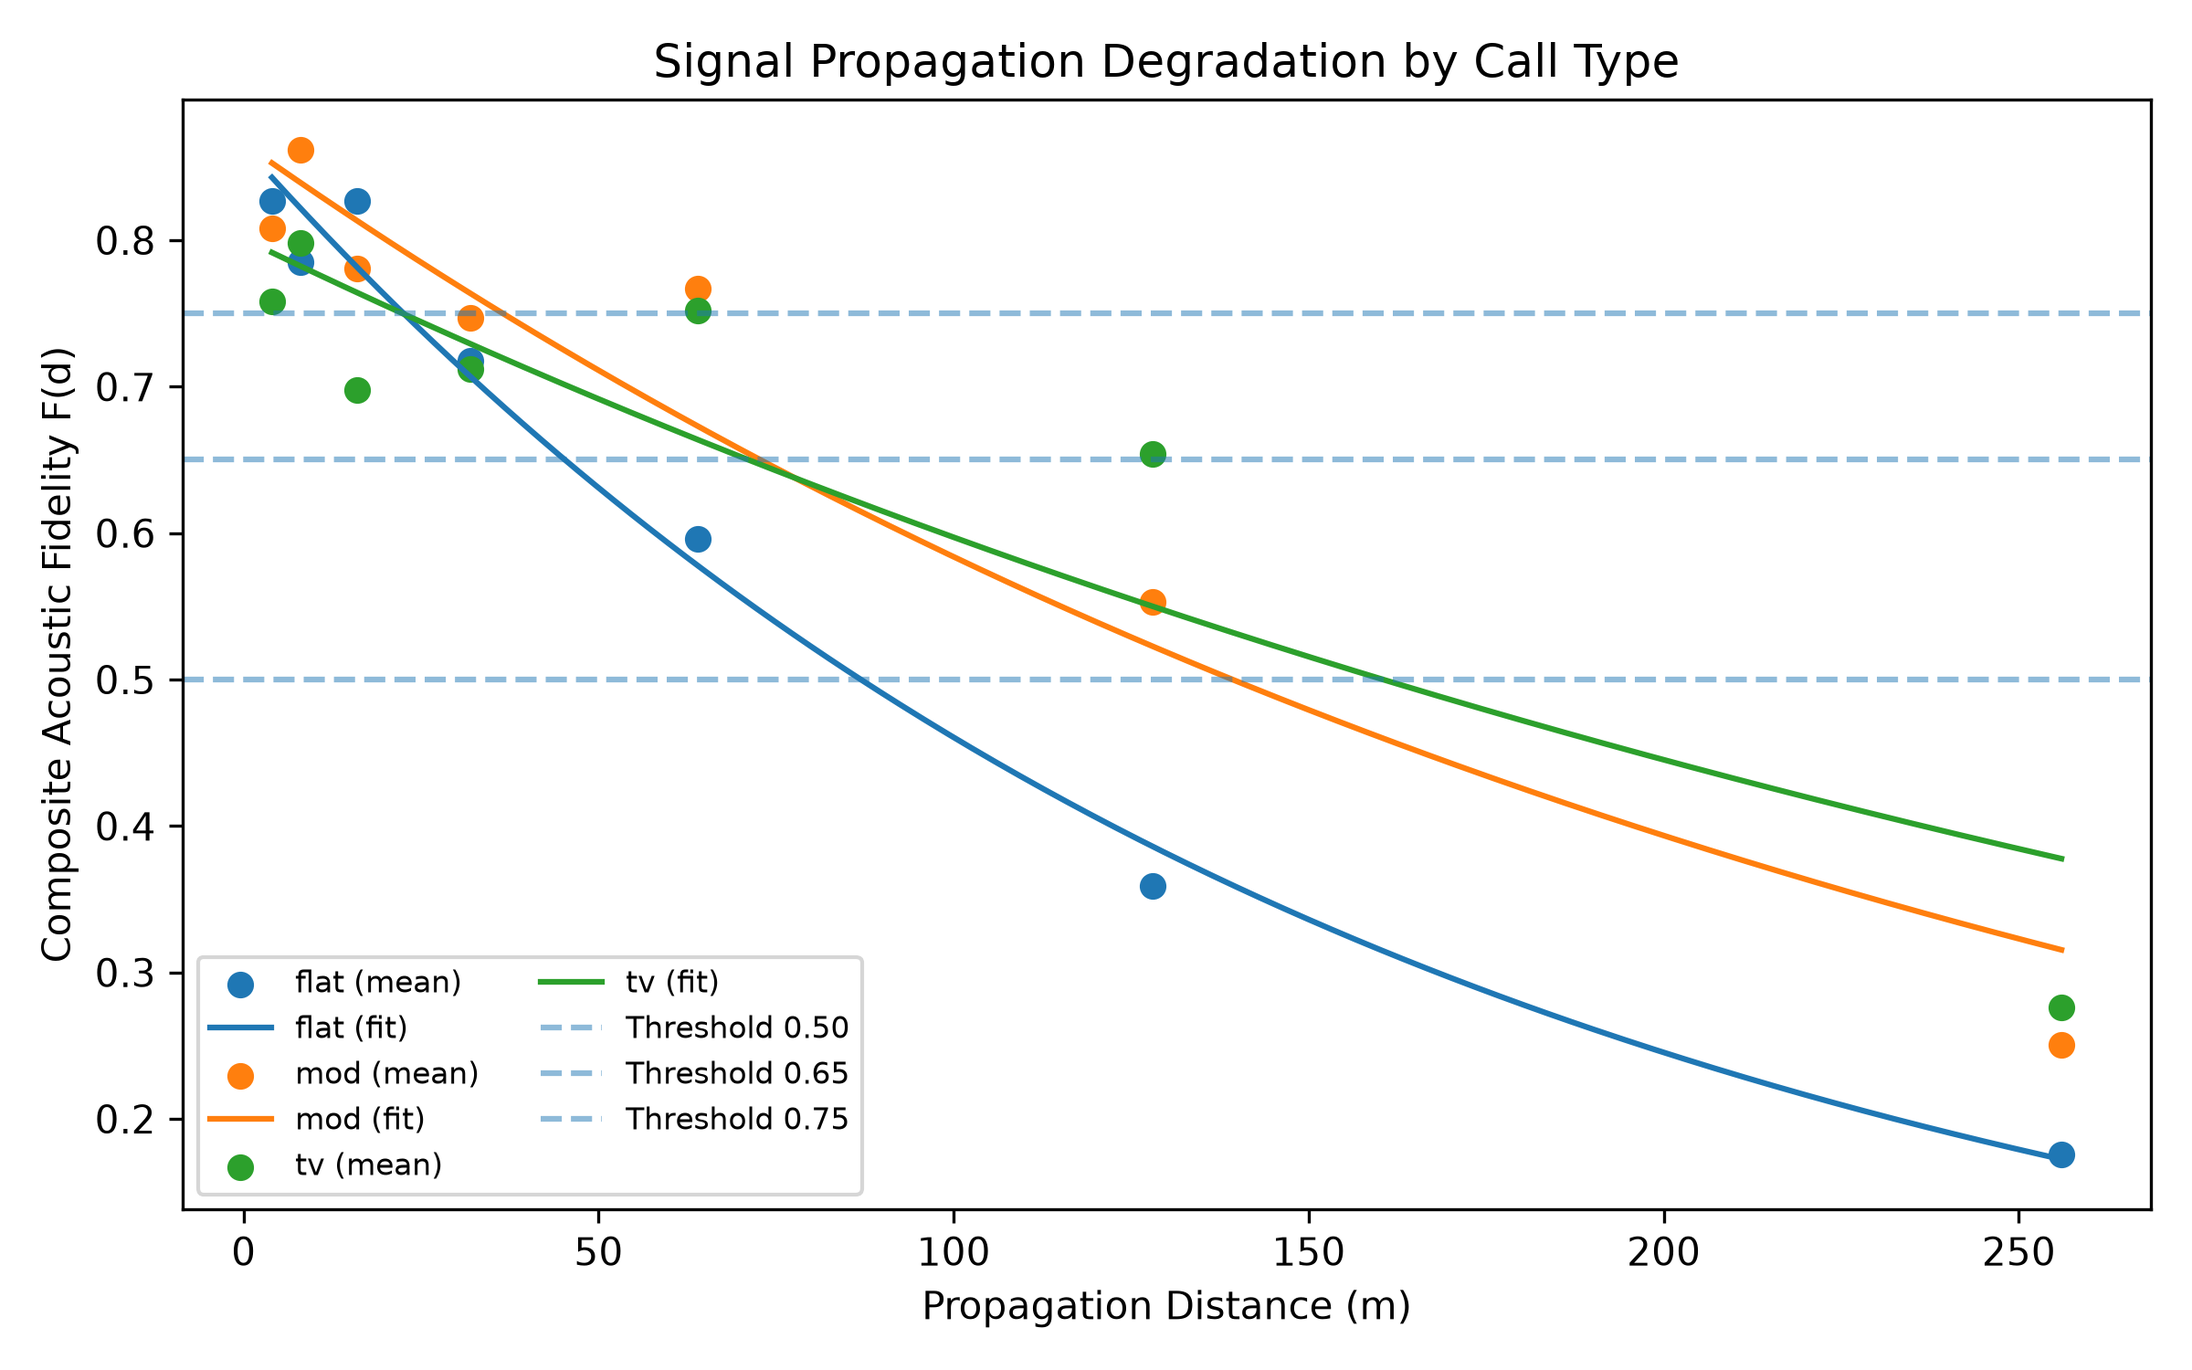
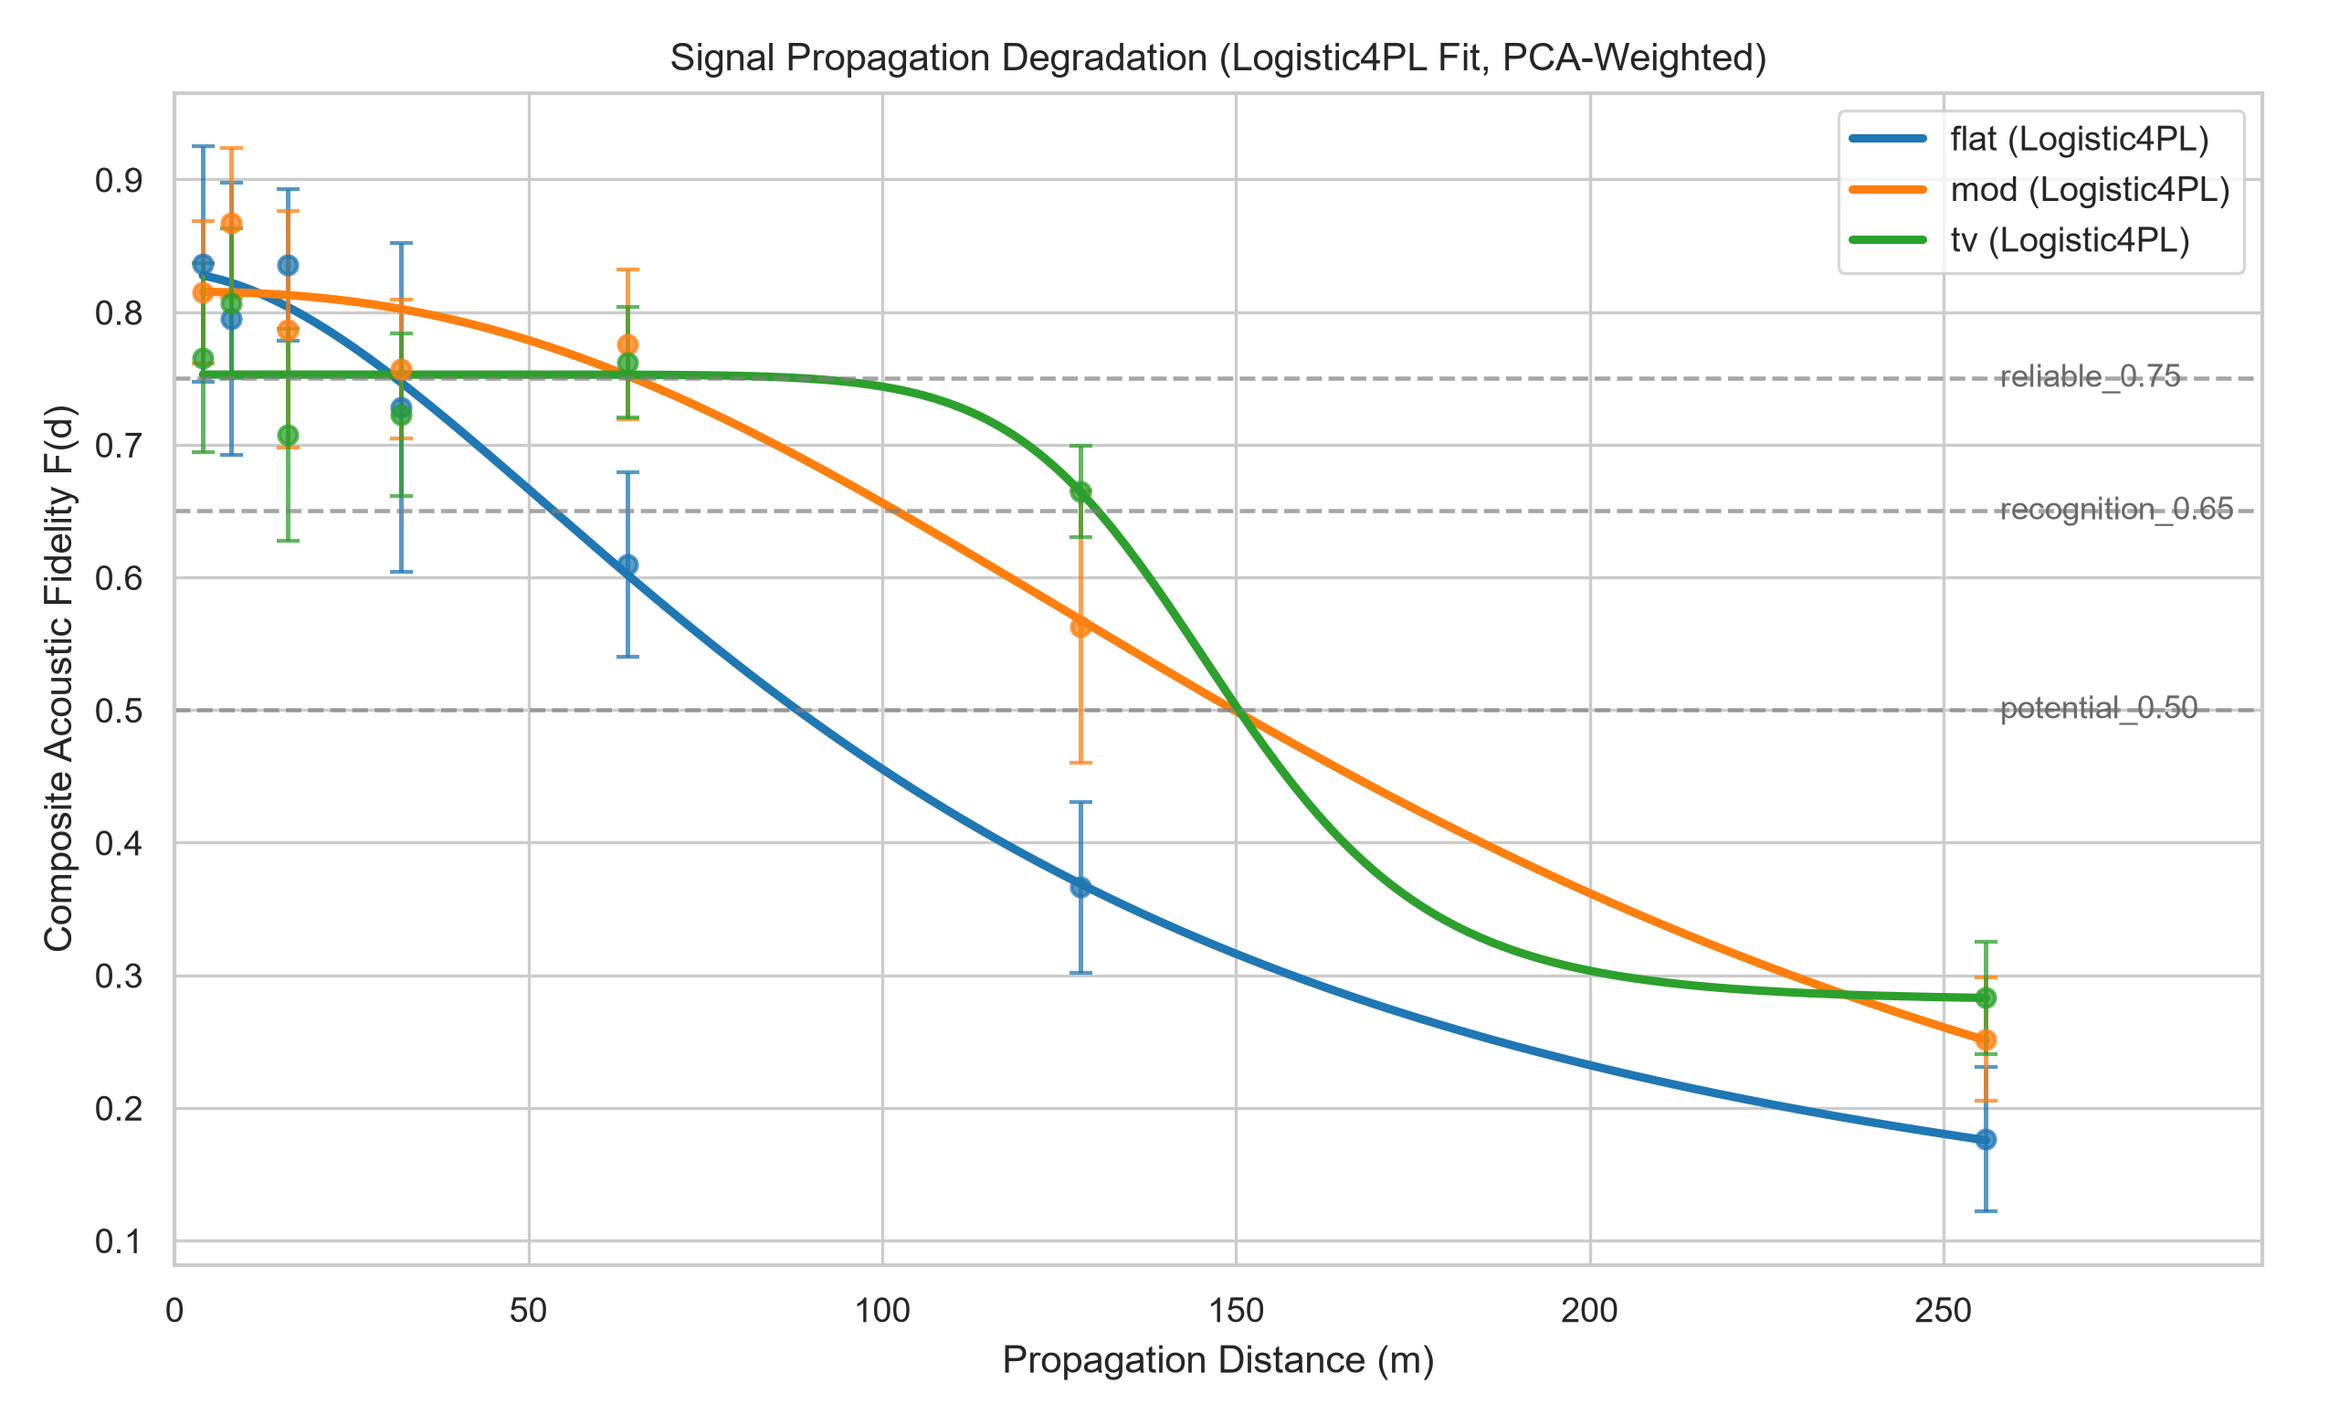
feat(q2): add PCA/entropy weights, 3-model AIC comparison, and sensitivity analysis

diff --git a/src/q2_signal_degradation.py b/src/q2_signal_degradation.py
@@ -1,14 +1,18 @@
-"""Problem 2: Signal propagation degradation and effective communication range."""
+"""Problem 2: Signal propagation degradation, model comparison, and effective range."""
 
 import matplotlib.pyplot as plt
 import numpy as np
 import pandas as pd
-from scipy.optimize import curve_fit
+import seaborn as sns
+from scipy.optimize import brentq, curve_fit
+from sklearn.decomposition import PCA
 
 from config import FIGURES_DIR, RANDOM_SEED, TABLES_DIR, resolve_data_dir
 
 DISTANCES = np.array([4, 8, 16, 32, 64, 128, 256], dtype=float)
 DIST_COLS = ["4m", "8m", "16m", "32m", "64m", "128m", "256m"]
+CALL_TYPES = ["flat", "mod", "tv"]
+DIM_NAMES = ["Spectrogram", "AmplitudeSpectrum", "Envelope"]
 
 FILE_MAP = {
     "flat": (
@@ -28,58 +32,136 @@ FILE_MAP = {
     ),
 }
 
-THRESHOLDS = {"potential_0.50": 0.50, "moderate_0.65": 0.65, "reliable_0.75": 0.75}
+THRESHOLDS = {
+    "potential_0.50": 0.50,
+    "recognition_0.65": 0.65,
+    "reliable_0.75": 0.75,
+}
 
 
+def load_raw_dimensions(data_dir, call_type: str) -> list[np.ndarray]:
+    """Load the 3 correlation matrices (spectrogram, amplitude spectrum, envelope)."""
+    return [pd.read_csv(data_dir / f)[DIST_COLS].values for f in FILE_MAP[call_type]]
+
+
+def compute_objective_weights(data_dir) -> pd.DataFrame:
+    """Compute PCA-1 and Entropy weights pooled across all call types and distances."""
+    stacked = []
+    for ct in CALL_TYPES:
+        mats = load_raw_dimensions(data_dir, ct)
+        # Flatten (300 x 7) -> (2100 x 3)
+        stacked.append(np.column_stack([m.ravel() for m in mats]))
+    all_obs = np.vstack(stacked)
+    valid = all_obs[~np.isnan(all_obs).any(axis=1)]
+
+    # PCA first component weights
+    pca = PCA(n_components=1, random_state=RANDOM_SEED).fit(valid)
+    w_pca = np.abs(pca.components_[0])
+    w_pca = w_pca / w_pca.sum()
+
+    # Entropy Weight Method (EWM)
+    eps = 1e-12
+    col_min = valid.min(axis=0)
+    col_max = valid.max(axis=0)
+    normed = (valid - col_min) / (col_max - col_min + eps)
+    p = normed / (normed.sum(axis=0) + eps)
+    k = 1.0 / np.log(len(valid))
+    entropy = -k * np.sum(p * np.log(p + eps), axis=0)
+    div = 1.0 - entropy
+    w_ewm = div / div.sum()
+
+    return pd.DataFrame(
+        {
+            "Dimension": DIM_NAMES,
+            "Equal_Weight": [1 / 3, 1 / 3, 1 / 3],
+            "PCA_Weight": w_pca,
+            "Entropy_Weight": w_ewm,
+        }
+    )
+
+
+def combine_fidelity(mats: list[np.ndarray], weights: np.ndarray) -> np.ndarray:
+    """Weighted average across 3 correlation matrices, ignoring NaNs safely."""
+    stacked = np.stack(mats, axis=-1)  # (N, 7, 3)
+    w = np.asarray(weights, dtype=float)
+    mask = ~np.isnan(stacked)
+    w_masked = np.where(mask, w[None, None, :], 0.0)
+    num = np.nansum(stacked * w[None, None, :], axis=-1)
+    den = np.sum(w_masked, axis=-1)
+    return np.where(den > 0, num / den, np.nan)
+
+
+# --- Candidate degradation models ---
 def exp_decay(d: np.ndarray, a: float, b: float, c: float) -> np.ndarray:
-    """Three-parameter exponential decay curve."""
     return a * np.exp(-b * d) + c
 
 
-def invert_exp_decay(tau: float, a: float, b: float, c: float) -> float:
-    """Solve a * exp(-b * d) + c = tau for distance d."""
-    if tau <= c or a <= 0 or b <= 0 or (tau - c) >= a:
+def log_linear_decay(d: np.ndarray, a: float, b: float, alpha: float) -> np.ndarray:
+    return a - b * np.log(d) - alpha * d
+
+
+def logistic_4pl(d: np.ndarray, d_min: float, d_max: float, d0: float, p: float) -> np.ndarray:
+    return d_min + (d_max - d_min) / (1.0 + (d / d0) ** p)
+
+
+MODEL_SPECS = {
+    "Exponential": (exp_decay, [0.6, 0.01, 0.2], ([0, 0, 0], [2, 1, 1])),
+    "LogLinear": (log_linear_decay, [1.0, 0.05, 0.001], ([0, 0, 0], [2, 1, 0.1])),
+    "Logistic4PL": (logistic_4pl, [0.1, 0.9, 60.0, 1.2], ([0, 0.5, 1.0, 0.1], [0.6, 1.2, 500.0, 10.0])),
+}
+
+
+def fit_model(model_name: str, y_mean: np.ndarray) -> tuple[np.ndarray, float, float, float]:
+    """Fit a candidate model and return (params, R2, RMSE, AIC)."""
+    fn, p0, bounds = MODEL_SPECS[model_name]
+    popt, _ = curve_fit(fn, DISTANCES, y_mean, p0=p0, bounds=bounds, maxfev=10000)
+    y_hat = fn(DISTANCES, *popt)
+    resid = y_mean - y_hat
+    sse = float(np.sum(resid ** 2))
+    sst = float(np.sum((y_mean - y_mean.mean()) ** 2))
+    r2 = 1.0 - sse / sst if sst > 0 else np.nan
+    rmse = float(np.sqrt(sse / len(DISTANCES)))
+    n = len(DISTANCES)
+    k = len(popt)
+    aic = n * np.log(sse / n + 1e-12) + 2 * k
+    return popt, r2, rmse, aic
+
+
+def invert_model(model_name: str, popt: np.ndarray, tau: float) -> float:
+    """Numerically solve model(d) = tau on [1, 1000] meters."""
+    fn = MODEL_SPECS[model_name][0]
+    f_lo = fn(np.array([1.0]), *popt)[0] - tau
+    f_hi = fn(np.array([1000.0]), *popt)[0] - tau
+    if f_lo * f_hi > 0:
         return np.nan
-    return float(-np.log((tau - c) / a) / b)
+    return float(brentq(lambda x: fn(np.array([x]), *popt)[0] - tau, 1.0, 1000.0))
 
 
-def load_composite_fidelity(
-    data_dir, call_type: str, weights: tuple[float, float, float] = (1 / 3, 1 / 3, 1 / 3)
-) -> np.ndarray:
-    """Compute composite acoustic fidelity matrix (n_samples x n_distances)."""
-    files = FILE_MAP[call_type]
-    mats = [pd.read_csv(data_dir / f)[DIST_COLS].values for f in files]
-    w1, w2, w3 = weights
-    return w1 * mats[0] + w2 * mats[1] + w3 * mats[2]
-
-
-def fit_and_bootstrap(
-    fidelity_mat: np.ndarray, n_boot: int = 500
+def bootstrap_effective_range(
+    fidelity_mat: np.ndarray, model_name: str, n_boot: int = 500
 ) -> tuple[np.ndarray, dict[str, tuple[float, float, float]]]:
-    """Fit exponential decay to mean fidelity and estimate Bootstrap 95% CIs for d_eff."""
+    """Fit model and compute Bootstrap 95% CIs for effective distances."""
     mean_y = np.nanmean(fidelity_mat, axis=0)
-    popt, _ = curve_fit(
-        exp_decay, DISTANCES, mean_y, p0=[0.6, 0.01, 0.2], bounds=([0, 0, 0], [2, 1, 1]), maxfev=5000
-    )
+    popt, _, _, _ = fit_model(model_name, mean_y)
 
     rng = np.random.default_rng(RANDOM_SEED)
     boot_dists = {k: [] for k in THRESHOLDS}
     n_rows = fidelity_mat.shape[0]
+    fn, _, bounds = MODEL_SPECS[model_name]
+
     for _ in range(n_boot):
         idx = rng.integers(0, n_rows, size=n_rows)
         y_b = np.nanmean(fidelity_mat[idx], axis=0)
         try:
-            p_b, _ = curve_fit(
-                exp_decay, DISTANCES, y_b, p0=popt, bounds=([0, 0, 0], [2, 1, 1]), maxfev=3000
-            )
+            p_b, _ = curve_fit(fn, DISTANCES, y_b, p0=popt, bounds=bounds, maxfev=4000)
             for k, tau in THRESHOLDS.items():
-                boot_dists[k].append(invert_exp_decay(tau, *p_b))
+                boot_dists[k].append(invert_model(model_name, p_b, tau))
         except RuntimeError:
             continue
 
     summary = {}
     for k, tau in THRESHOLDS.items():
-        pt = invert_exp_decay(tau, *popt)
+        pt = invert_model(model_name, popt, tau)
         vals = np.array([v for v in boot_dists[k] if not np.isnan(v)])
         lo = float(np.percentile(vals, 2.5)) if len(vals) else np.nan
         hi = float(np.percentile(vals, 97.5)) if len(vals) else np.nan
@@ -89,44 +171,155 @@ def fit_and_bootstrap(
 
 def main() -> None:
     data_dir = resolve_data_dir()
-    rows = []
+    sns.set_theme(style="whitegrid", context="paper", font_scale=1.05)
 
-    plt.figure(figsize=(8, 5))
-    d_grid = np.linspace(4, 256, 300)
+    # 1. Objective weights
+    weights_df = compute_objective_weights(data_dir)
+    weights_df.to_csv(TABLES_DIR / "q2_fidelity_weights.csv", index=False)
+    pca_weights = weights_df["PCA_Weight"].values
 
-    for ct in ["flat", "mod", "tv"]:
-        mat = load_composite_fidelity(data_dir, ct)
-        popt, summary = fit_and_bootstrap(mat)
+    # 2. Model comparison (using PCA-weighted fidelity)
+    comp_rows = []
+    fidelity_by_ct = {}
+    for ct in CALL_TYPES:
+        mats = load_raw_dimensions(data_dir, ct)
+        f_mat = combine_fidelity(mats, pca_weights)
+        fidelity_by_ct[ct] = f_mat
+        y_mean = np.nanmean(f_mat, axis=0)
+        for m_name in MODEL_SPECS:
+            try:
+                _, r2, rmse, aic = fit_model(m_name, y_mean)
+            except RuntimeError:
+                r2, rmse, aic = np.nan, np.nan, np.nan
+            comp_rows.append(
+                {"CallType": ct, "Model": m_name, "R2": r2, "RMSE": rmse, "AIC": aic}
+            )
+    comp_df = pd.DataFrame(comp_rows)
+    comp_df.to_csv(TABLES_DIR / "q2_model_comparison.csv", index=False)
+
+    # Select best overall model by lowest mean AIC
+    best_model = comp_df.groupby("Model")["AIC"].mean().idxmin()
+
+    # 3. Effective range + Bootstrap 95% CI using best_model
+    range_rows = []
+    fitted_params = {}
+    for ct in CALL_TYPES:
+        popt, summary = bootstrap_effective_range(fidelity_by_ct[ct], best_model)
+        fitted_params[ct] = popt
         for k, (pt, lo, hi) in summary.items():
-            rows.append(
+            range_rows.append(
                 {
                     "CallType": ct,
+                    "Model": best_model,
                     "Criterion": k,
                     "d_eff_m": pt,
                     "CI_2.5_m": lo,
                     "CI_97.5_m": hi,
-                    "a": popt[0],
-                    "b": popt[1],
-                    "c": popt[2],
                 }
             )
-        plt.scatter(DISTANCES, np.nanmean(mat, axis=0), label=f"{ct} (mean)")
-        plt.plot(d_grid, exp_decay(d_grid, *popt), label=f"{ct} (fit)")
+    range_df = pd.DataFrame(range_rows)
+    range_df.to_csv(TABLES_DIR / "q2_effective_range.csv", index=False)
 
+    # 4. Sensitivity analysis (threshold sweep + weight scheme sweep)
+    sens_rows = []
+    tau_grid = np.arange(0.45, 0.81, 0.05)
+    for ct in CALL_TYPES:
+        for tau in tau_grid:
+            d_val = invert_model(best_model, fitted_params[ct], float(tau))
+            sens_rows.append(
+                {"Analysis": "ThresholdSweep", "CallType": ct, "Setting": f"{tau:.2f}", "d_eff_m": d_val}
+            )
+
+    weight_schemes = {
+        "PCA": weights_df["PCA_Weight"].values,
+        "Equal": weights_df["Equal_Weight"].values,
+        "Entropy": weights_df["Entropy_Weight"].values,
+        "SpecOnly": np.array([1.0, 0.0, 0.0]),
+        "AmpOnly": np.array([0.0, 1.0, 0.0]),
+        "EnvOnly": np.array([0.0, 0.0, 1.0]),
+    }
+    for ct in CALL_TYPES:
+        mats = load_raw_dimensions(data_dir, ct)
+        for s_name, w_vec in weight_schemes.items():
+            f_mat = combine_fidelity(mats, w_vec)
+            popt, _, _, _ = fit_model(best_model, np.nanmean(f_mat, axis=0))
+            d_pot = invert_model(best_model, popt, 0.50)
+            d_rel = invert_model(best_model, popt, 0.75)
+            sens_rows.append(
+                {"Analysis": "WeightScheme_0.50", "CallType": ct, "Setting": s_name, "d_eff_m": d_pot}
+            )
+            sens_rows.append(
+                {"Analysis": "WeightScheme_0.75", "CallType": ct, "Setting": s_name, "d_eff_m": d_rel}
+            )
+    sens_df = pd.DataFrame(sens_rows)
+    sens_df.to_csv(TABLES_DIR / "q2_sensitivity_analysis.csv", index=False)
+
+    # 5. Plots
+    # Plot A: Degradation curves
+    fig, ax = plt.subplots(figsize=(8.5, 5.2))
+    d_grid = np.linspace(4, 256, 300)
+    palette = {"flat": "#1f77b4", "mod": "#ff7f0e", "tv": "#2ca02c"}
+    fn = MODEL_SPECS[best_model][0]
+    for ct in CALL_TYPES:
+        mat = fidelity_by_ct[ct]
+        mean_y = np.nanmean(mat, axis=0)
+        std_y = np.nanstd(mat, axis=0)
+        ax.errorbar(DISTANCES, mean_y, yerr=std_y, fmt="o", capsize=3, color=palette[ct], alpha=0.75)
+        ax.plot(d_grid, fn(d_grid, *fitted_params[ct]), color=palette[ct], lw=2.2, label=f"{ct} ({best_model})")
     for k, tau in THRESHOLDS.items():
-        plt.axhline(tau, linestyle="--", alpha=0.5, label=f"Threshold {tau:.2f}")
-
-    plt.xlabel("Propagation Distance (m)")
-    plt.ylabel("Composite Acoustic Fidelity F(d)")
-    plt.title("Signal Propagation Degradation by Call Type")
-    plt.legend(fontsize=8, ncol=2)
+        ax.axhline(tau, ls="--", lw=1.1, color="gray", alpha=0.7)
+        ax.text(258, tau, k, va="center", fontsize=8.5, color="dimgray")
+    ax.set_xlim(0, 295)
+    ax.set_xlabel("Propagation Distance (m)")
+    ax.set_ylabel("Composite Acoustic Fidelity F(d)")
+    ax.set_title(f"Signal Propagation Degradation ({best_model} Fit, PCA-Weighted)")
+    ax.legend()
     plt.tight_layout()
-    plt.savefig(FIGURES_DIR / "q2_degradation_curves.png", dpi=300)
-    plt.close()
+    fig.savefig(FIGURES_DIR / "q2_degradation_curves.png", dpi=300)
+    plt.close(fig)
 
-    res_df = pd.DataFrame(rows)
-    res_df.to_csv(TABLES_DIR / "q2_effective_range.csv", index=False)
-    print(res_df.to_string(index=False))
+    # Plot B: Effective range with 95% CI
+    focus_df = range_df[range_df["Criterion"].isin(["potential_0.50", "reliable_0.75"])].copy()
+    fig, ax = plt.subplots(figsize=(8, 4.5))
+    sns.barplot(data=focus_df, x="Criterion", y="d_eff_m", hue="CallType", palette=palette, ax=ax)
+    for bar, (_, row) in zip(ax.patches, focus_df.sort_values(["CallType", "Criterion"]).iterrows()):
+        pass
+    # Overlay exact CI error bars
+    x_positions = {"potential_0.50": 0, "reliable_0.75": 1}
+    offsets = {"flat": -0.27, "mod": 0.0, "tv": 0.27}
+    for _, r in focus_df.iterrows():
+        xp = x_positions[r["Criterion"]] + offsets[r["CallType"]]
+        yerr = [[r["d_eff_m"] - r["CI_2.5_m"]], [r["CI_97.5_m"] - r["d_eff_m"]]]
+        ax.errorbar(xp, r["d_eff_m"], yerr=yerr, fmt="none", ecolor="black", capsize=4, lw=1.3)
+    ax.set_ylabel("Effective Communication Range (m)")
+    ax.set_title("Effective Communication Range with 95% Bootstrap CI")
+    plt.tight_layout()
+    fig.savefig(FIGURES_DIR / "q2_effective_range_ci.png", dpi=300)
+    plt.close(fig)
+
+    # Plot C: Sensitivity analysis
+    fig, axes = plt.subplots(1, 2, figsize=(12.5, 4.8))
+    t_df = sens_df[sens_df["Analysis"] == "ThresholdSweep"].copy()
+    t_df["Threshold"] = t_df["Setting"].astype(float)
+    sns.lineplot(data=t_df, x="Threshold", y="d_eff_m", hue="CallType", marker="o", palette=palette, ax=axes[0])
+    axes[0].set_title("Sensitivity to Recognition Threshold")
+    axes[0].set_ylabel("Effective Range (m)")
+
+    w_df = sens_df[sens_df["Analysis"] == "WeightScheme_0.50"]
+    sns.barplot(data=w_df, x="Setting", y="d_eff_m", hue="CallType", palette=palette, ax=axes[1])
+    axes[1].set_title("Sensitivity to Weighting Scheme (Threshold = 0.50)")
+    axes[1].set_ylabel("Effective Range (m)")
+    axes[1].tick_params(axis="x", rotation=25)
+    plt.tight_layout()
+    fig.savefig(FIGURES_DIR / "q2_sensitivity_analysis.png", dpi=300)
+    plt.close(fig)
+
+    print("=== Objective Weights ===")
+    print(weights_df.to_string(index=False))
+    print("\n=== Model Comparison ===")
+    print(comp_df.to_string(index=False))
+    print(f"\n=== Best Model: {best_model} | Effective Range ===")
+    print(range_df.to_string(index=False))
 
 
 if __name__ == "__main__":
